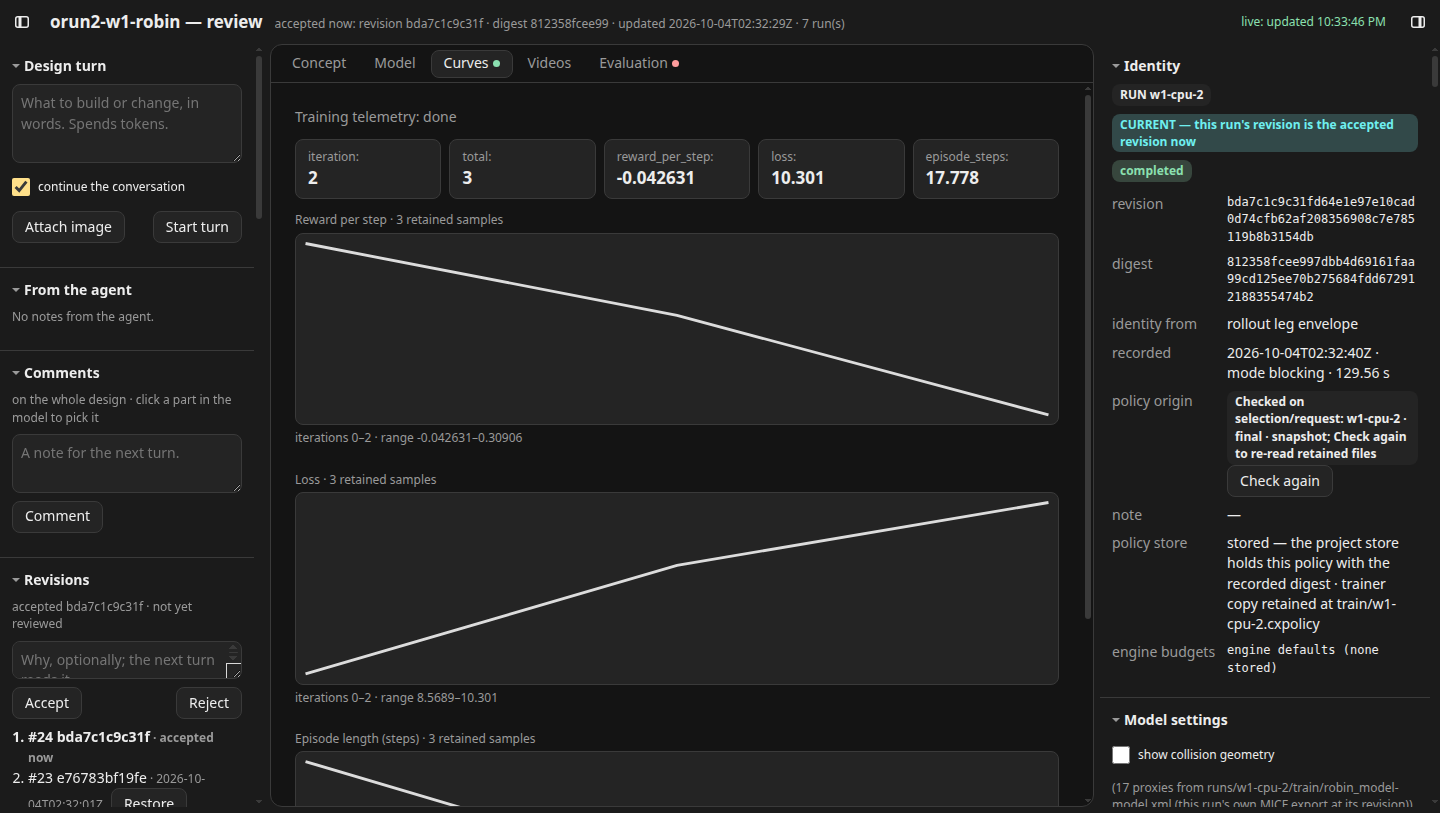
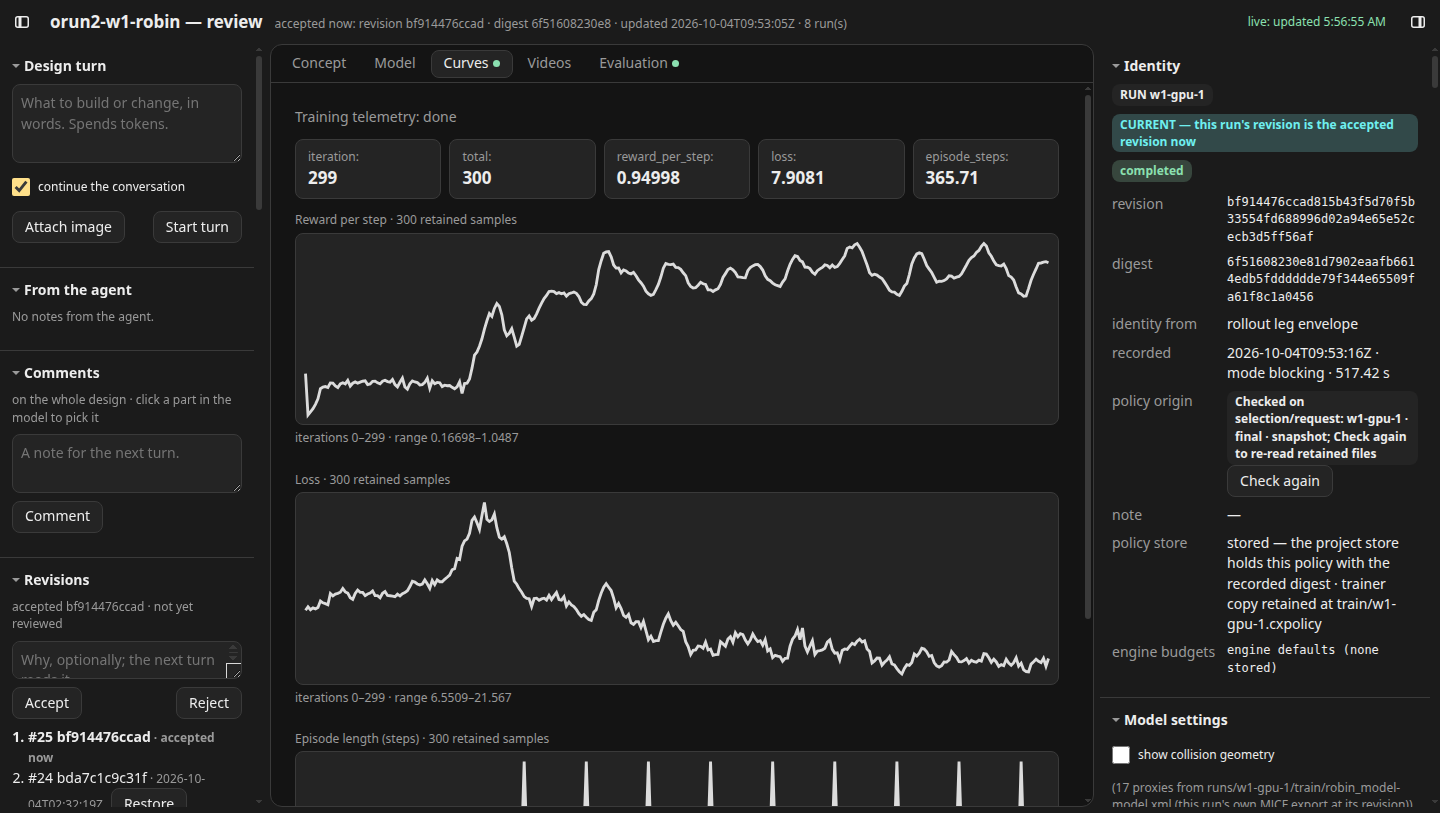
orun2 W1 step 7 on the 5090: walk 300 it x 1024 envs on GPU, evaluate 10/10; REPORT defect 5 cleared

diff --git a/docs/probes/orun2/w1/walk_train_dashboard.py b/docs/probes/orun2/w1/walk_train_dashboard.py
@@ -9,7 +9,7 @@ drives it in headless Chromium, and writes what the page showed to
 nothing: training stays on the CLI, and the page only shows it.
 
     PYTHONPATH=cli pixi run python docs/probes/orun2/w1/walk_train_dashboard.py \
-        --projects ~/cadex-projects --project orun2-w1-robin --run w1-cpu-2 \
+        --projects ~/cadex-projects --project orun2-w1-robin --run w1-gpu-1 \
         --out /tmp/w1/evidence
 """
 

diff --git a/docs/probes/orun2/REPORT.md b/docs/probes/orun2/REPORT.md
@@ -4,7 +4,7 @@ Verified against source: 2026-10-04, at `37733eec` (the orun2 run branch).
 The D1 and D2 numbers were measured at `13c660cf`; no later commit touches
 the build, the setup route or the slider path.
 ADR-531 and ADR-532 (the payload's LLVM, then OpenCV/PCL/Node/Perl prunes)
-landed after; §3 and defect 6 carry them.
+landed after; §3 and defect 6 carry them. W1's GPU leg (defect 5) was measured at `50442820`.
 Charter: `.ouroboros/goal.md`, "Cadex is three things — the engine, the
 dashboard, the agent". Every number below was measured on sb1x (linux-64,
 32 cores). The owner ticks the criteria; this report claims none of them.
@@ -19,7 +19,7 @@ dashboard, the agent". Every number below was measured on sb1x (linux-64,
 | D2 watch and steer | evidence recorded | one browser test per item against a real engine (§4) | `morning-peak-8268`, `placid-bell-2440`, `noble-glade-0483`, `stormy-grove-7025`, `sweet-mist-9111`, `calm-falcon-6751`, `narrow-crest-4950`, `staid-wave-3739`, `polished-lodge-7956` |
 | D3 runs first-class | evidence recorded | ADR-513, ADR-514, ADR-515, ADR-518, ADR-519 | `mellow-otter-0798`, `polished-reef-4161`, `lean-star-6139`, `quiet-ivy-3898`, `amber-moon-9415` |
 | A1 one contract, a channel | evidence recorded | `leave_note` (ADR-512), the guidance settled (ADR-521) | `proud-quill-5791`, `autumn-rose-7173` |
-| W1 nothing lost | evidence recorded except the GPU half of step 7 | walk steps 1–8 ran and were seen in the dashboard; step 7 ran on the CPU because the 5090's driver is not loaded (defect 5). The ledger has no "to port" row | `red-loom-2239`, `icy-tooth-7719`, `dusty-bramble-8099`, `mellow-fjord-5906`, `neat-grove-1406`, `solemn-birch-8260` |
+| W1 nothing lost | evidence recorded | walk steps 1–8 ran and were seen in the dashboard; step 7 trained on the 5090 (300 it × 1024 envs, 331 s) and `evaluate` passed 10 of 10 seeds (defect 5, cleared). The ledger has no "to port" row | `red-loom-2239`, `icy-tooth-7719`, `dusty-bramble-8099`, `mellow-fjord-5906`, `neat-grove-1406`, `solemn-birch-8260` |
 | C1 this report | this file | §1–§6 below | `clear-current-6218`, `lively-beacon-5538`, `clever-sky-3211` |
 
 The owner-note units each have their own record: the blueprint composer
@@ -179,12 +179,14 @@ Each was re-checked on 2026-10-04 while the screenshots were taken.
    already skipped traces and exports. The median is now 0.043 s, the
    first preview 0.28 s, `ok` is true, and the bar is unchanged.
    `test_preview_skips_fit.py` pins it.
-5. **W1 step 7 ran on the CPU: still open, and the one blocker.**
-   Re-checked at `37733eec`: `lsmod` lists no `nvidia` module, and
-   `nvidia-smi` "couldn't communicate with the NVIDIA driver". Loading the
-   driver needs the owner. Once it loads, the 5090 leg is one command,
-   `cadex walk` on `orun2-w1-robin` without `JAX_PLATFORMS=cpu`. The CPU run
-   is a lifecycle check, not a gait.
+5. **W1 step 7 ran on the CPU: cleared.** The owner loaded driver
+   580.178.04 on 2026-10-04; `nvidia-smi` sees the RTX 5090 and
+   `~/cadex-train-venv` reports `jax.default_backend() == "gpu"`. The leg
+   ran again without `JAX_PLATFORMS=cpu`: `cadex walk --iterations 300
+   --envs 1024 --seed 1001` exited 0 in 517.5 s, with receipt `device: gpu`,
+   331.1 s of training, reward/step 0.950, and a rollout upright over all
+   501 frames. `cadex evaluate` then passed **10 of 10 seeds**. Both are on
+   the dashboard (`w1/w1-7-training.png`, `w1/w1-8-evaluate.png`).
 6. **The installed footprint shrank by two slices; the pixi environment
    did not.** The staged payload no longer carries LLVM and clang (ADR-531)
    or OpenCV, PCL, Node and Perl (ADR-532), none of which any ELF or module
@@ -196,7 +198,7 @@ Each was re-checked on 2026-10-04 while the screenshots were taken.
 
 ## 7. The done claim
 
-Every criterion except W1's GPU leg has recorded, measured evidence, and
-that leg waits on the driver (defect 5), not on code. This report claims
+Every criterion has recorded, measured evidence, W1's GPU leg included
+(defect 5, cleared). This report claims
 done for the critic's review. The owner ticks the boxes, and none is ticked
 here.

diff --git a/docs/probes/orun2/w1/README.md b/docs/probes/orun2/w1/README.md
@@ -15,11 +15,13 @@ aside. Then `cadex walk` trained, stored and declared a new policy, and
 `walk_train_dashboard.py` drives the page and only reads. `walk-train-steps.json`
 holds what the page showed.
 
-**The training ran on the CPU, not the 5090.** On 2026-10-04 the running
-kernel (7.0.0-34) had no `nvidia` module, and `nvidia-smi` could not reach
-the driver. The leg ran as `training/SETUP.md` §b allows, for lifecycle
-verification: 3 iterations × 8 envs. That proves the path, not a gait, and
-the policy fails as a three-iteration policy should.
+**The training ran on the 5090.** A first pass on 2026-10-04 ran on the CPU
+(run `w1-cpu-2`, 3 iterations × 8 envs, policy `d2556f70`, evaluate fail 0 of
+10), because the running kernel had no `nvidia` module. Once the owner loaded
+driver 580.178.04, the leg ran again without `JAX_PLATFORMS=cpu` at the
+budget that trained Robin's earlier passing policy (300 iterations × 1024
+envs, training seed 1001). Rows 7–8 and both screenshots are that GPU run.
+The CPU run stays listed in the dashboard as a historical run.
 
 | Step | How it ran | Measured | Seen in the dashboard |
 |---|---|---|---|
@@ -29,8 +31,8 @@ the policy fails as a three-iteration policy should.
 | 4. `look` and render | `look` inside the step 1 turn; `cadex render` (CLI) | render exit 0 in 155.0 s | Concept tab: "the accepted design, drawn from revision 27150b476953", 0.51 kg, 8 servos, 178 × 151 × 123 mm (`w1-4-render.png`) |
 | 5. STEP/STL | **Export STEP + STL** on the page (`cadex export`) | done in 116.8 s; 62 `.step` + 62 `.stl` offered; `battery.step` starts `ISO-10303-21;`, `battery.stl` downloads | export list (`w1-5-export.png`) |
 | 6. MJCF | the same export stages the model beside them | `model-model.xml` (24,828 bytes, `<mujoco`, 8 actuators) and `walk_task-task.json` offered and downloaded | export list |
-| 7. Training | `JAX_PLATFORMS=cpu cadex walk --iterations 3 --envs 8` (CLI), after `params --set policy_on=0` accepted `bab6fa28` | exit 0; train 81.3 s, declare 9.1 s, rollout 18.8 s; receipt `device: cpu`, 5058 parameters, policy `d2556f70`, task `d50e953b`; accepted `bda7c1c9`; rollout tipped at step 19, total reward 8.82 | run `w1-cpu-2` listed and **current**, Curves tab: iteration 2 of 3, three samples in each of the three histories, checkpoints from the run's own `train/`; the policy stored with its recorded digest (`w1-7-training.png`) |
-| 8. `evaluate` | `cadex evaluate` (CLI) | exit 0; **fail, 0 of 10 seeds**: B1, B2 and B5 fail on all 10, while B3 and B4 pass on all 10; seed 1101 filmed (2 filmstrips and a video) | Evaluation tab: the verdict, the predicate and seed tables, the film, and the earlier 10/10 evaluation listed as historical (`w1-8-evaluate.png`) |
+| 7. Training | `cadex walk --iterations 300 --envs 1024 --seed 1001 --name w1-gpu-1.cxpolicy` (CLI), GPU visible, no `JAX_PLATFORMS` | exit 0 in 517.5 s wall; legs: train 465.9 s (trainer wall time 331.1 s), declare 10.4 s, rollout 19.9 s; receipt `device: gpu`, 5058 parameters, reward/step 0.950 at iteration 299 (best 1.049 at 222), policy `dbd3913e`, task `d50e953b`; accepted `bf914476`; rollout upright over all 501 frames, max tilt 6.8°, total reward 672.6 | run `w1-gpu-1` listed and **current**, Curves tab: iteration 299 of 300, 300 samples in each of the three histories, checkpoints from the run's own `train/`; the policy stored with its recorded digest (`w1-7-training.png`) |
+| 8. `evaluate` | `cadex evaluate` (CLI) | exit 0 in 194.9 s; **pass, 10 of 10 seeds**: B1–B5 pass on all 10 (max tilt ≤ 6.35° against 30°, recovery ≤ 1.80 s against 2 s); seed 1101 filmed (2 filmstrips and a video) | Evaluation tab: the verdict, the predicate and seed tables, the film; the CPU run's 0/10 and the earlier 10/10 evaluations listed as historical (`w1-8-evaluate.png`) |
 
 ## Defects found on the way
 
